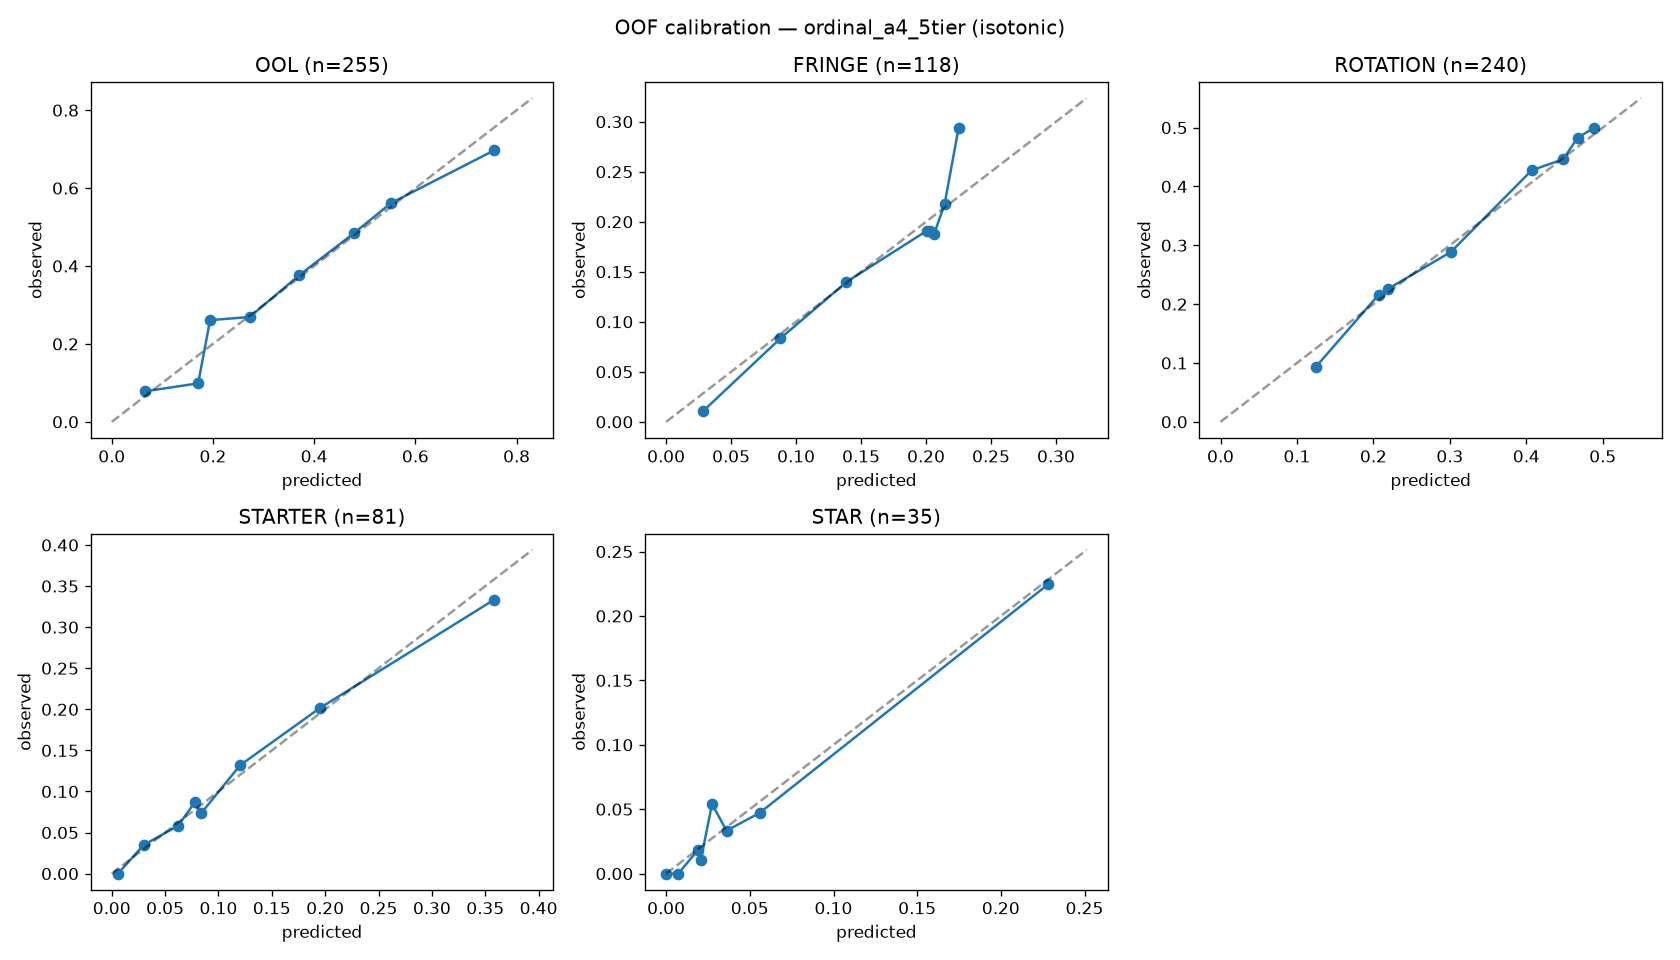
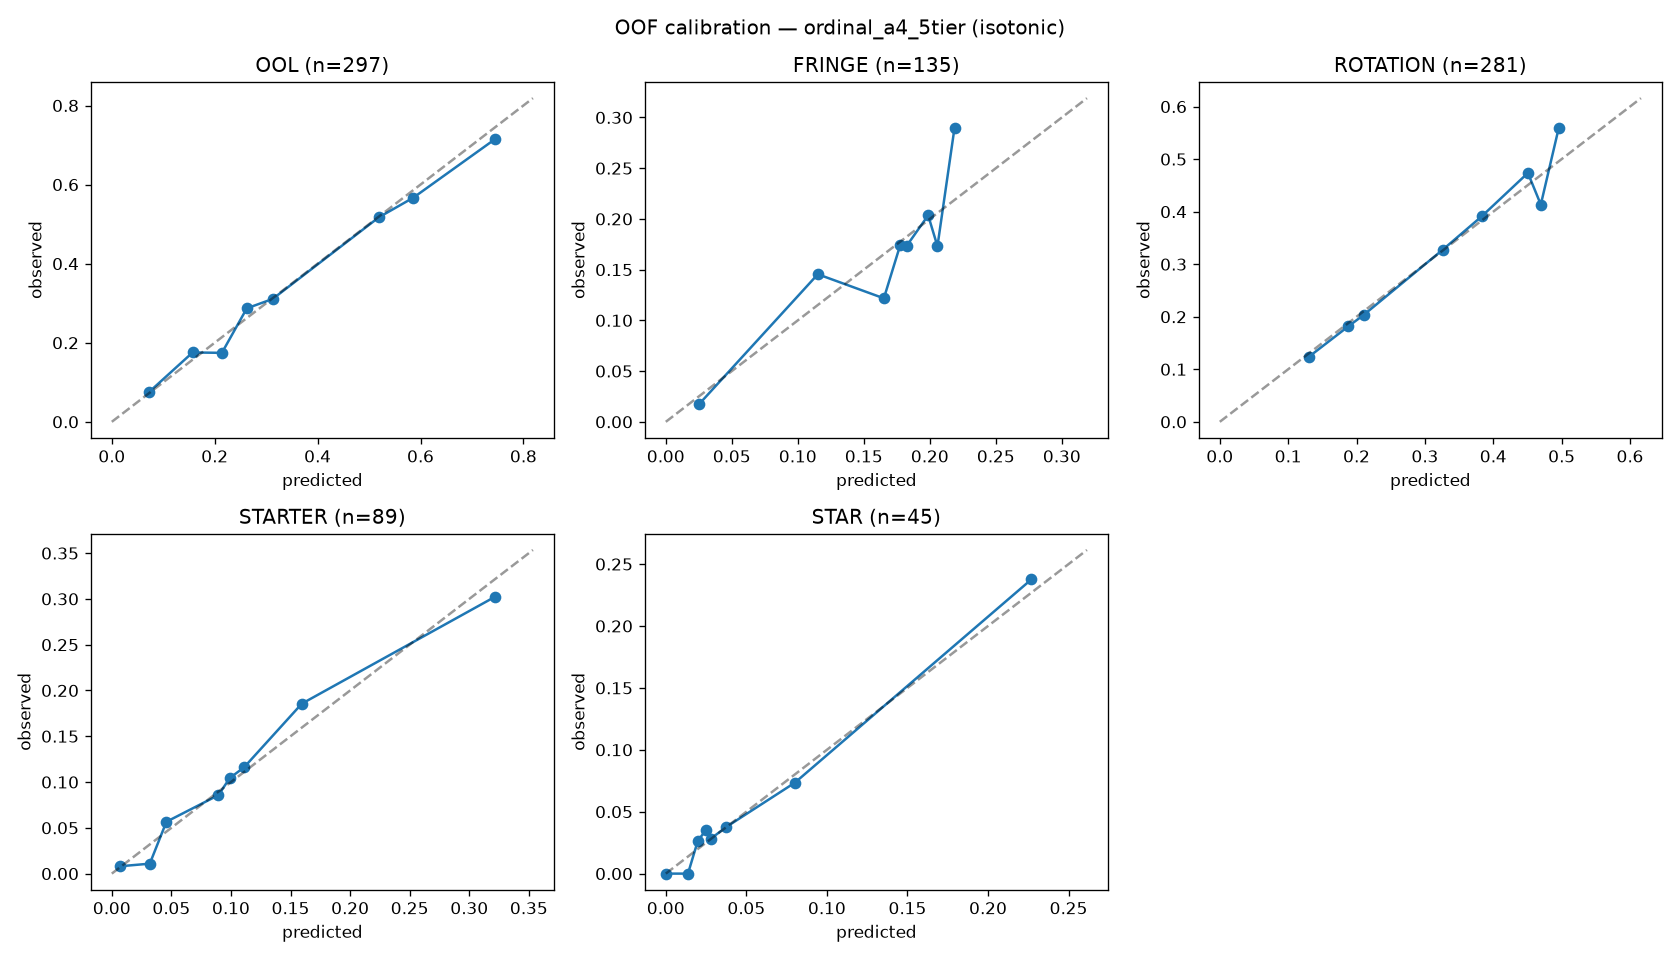
Extend training to 2009-2021 (13 classes) + two-axis bust framework
2009-2010 classes: 100% crosswalk coverage, Curry/Harden/George label
ELITE correctly. Gate verdict unchanged with more data (structural,
not sample noise). D14: value grade = realized utility minus slot EV
(Bust/Underdelivered/Delivered/Outperformed) - Bennett -11.6 vs
Wiggins -4.6 separation. D15: diagnostics - model beats market in
picks 31-45, loses in lottery; blend at ~25% model improves market.

diff --git a/model/common.py b/model/common.py
@@ -7,6 +7,23 @@ TIERS5 = ["OOL", "FRINGE", "ROTATION", "STARTER", "STAR"]  # AS+ELITE merged
 UTILITY = {"OOL": 0.0, "FRINGE": 1.0, "ROTATION": 3.0, "STARTER": 8.0,
            "ALL_STAR": 20.0, "ELITE": 40.0}
 
+
+def value_grade(shortfall: float) -> str:
+    """Market-relative outcome grade: realized utility minus slot-implied EV.
+
+    Two-axis framework (DECISIONS.md D14): the tier says what a player became;
+    this grade says what the pick cost. Self-adjusting by slot — a 55th pick who
+    never plays 'Delivered' (nothing was promised), a #1 who becomes a starter
+    merely 'Underdelivered' (Wiggins), and 'Bust' is reserved for Bennett-grade
+    shortfalls."""
+    if shortfall < -7:
+        return "Bust"
+    if shortfall < -3:
+        return "Underdelivered"
+    if shortfall <= 3:
+        return "Delivered"
+    return "Outperformed"
+
 FEATURES = [
     "age_at_draft", "height_in", "class_ord", "rec_score", "rec_missing", "power_conf",
     "min_pct", "usg", "ts", "efg", "ortg", "adjoe", "porpag", "adrtg", "dporpag",

diff --git a/pipeline/pull.py b/pipeline/pull.py
@@ -31,7 +31,7 @@ BARTTORVIK_COLS = [
     "role", "col65", "birthdate",
 ]
 
-SEASONS = range(2011, 2027)  # college seasons 2010-11 .. 2025-26
+SEASONS = range(2009, 2027)  # college seasons 2008-09 .. 2025-26 (Barttorvik starts 2008)
 
 
 def pull_barttorvik() -> pd.DataFrame:
@@ -64,7 +64,7 @@ def _bref_player_id(cell) -> str | None:
 
 def pull_bref_drafts() -> pd.DataFrame:
     rows = []
-    for yr in range(2011, 2027):
+    for yr in range(2009, 2027):
         html = get(f"https://www.basketball-reference.com/draft/NBA_{yr}.html", f"bref/draft_{yr}.html")
         soup = BeautifulSoup(html, "lxml")
         table = soup.find("table", id="stats")
@@ -93,7 +93,7 @@ def pull_bref_nba_seasons() -> pd.DataFrame:
     One page per season covers every player — no per-player scraping needed.
     """
     rows = []
-    for end_yr in range(2012, 2027):
+    for end_yr in range(2010, 2027):
         html = get(f"https://www.basketball-reference.com/leagues/NBA_{end_yr}_advanced.html",
                    f"bref/advanced_{end_yr}.html")
         soup = BeautifulSoup(uncomment(html), "lxml")
@@ -137,14 +137,14 @@ def pull_bref_accolades() -> pd.DataFrame:
         if not season or len(cells) < 5:
             continue
         end_yr = int(season[:4]) + 1
-        if end_yr < 2012 or "ABA" in tr.get_text():
+        if end_yr < 2010 or "ABA" in tr.get_text():
             continue
         for td in cells:
             pid = _bref_player_id(td)
             if pid:
                 rows.append({"season_end": end_yr, "bref_id": pid, "honor": "all_nba"})
-    # All-Star rosters: one page per year (no game in 2099; 2012-2026 all exist)
-    for end_yr in range(2012, 2027):
+    # All-Star rosters: one page per year
+    for end_yr in range(2010, 2027):
         html = get(f"https://www.basketball-reference.com/allstar/NBA_{end_yr}.html",
                    f"bref/allstar_{end_yr}.html")
         soup = BeautifulSoup(uncomment(html), "lxml")
@@ -164,7 +164,7 @@ def pull_combine() -> pd.DataFrame:
 
     # season_all_time="2018-19" holds the May 2018 combine, i.e. the 2018 draft class
     frames = []
-    for yr in range(2011, 2027):
+    for yr in range(2009, 2027):
         season = f"{yr}-{str(yr + 1)[-2:]}"
         cache = PROCESSED.parent / "raw" / "combine" / f"{season}.json"
         if cache.exists():
@@ -191,7 +191,7 @@ def pull_combine() -> pd.DataFrame:
 
 def pull_rsci() -> pd.DataFrame:
     rows = []
-    for yr in range(2006, 2026):
+    for yr in range(2004, 2026):
         html = get(f"https://www.basketball-reference.com/awards/recruit_rankings_{yr}.html",
                    f"bref/rsci_{yr}.html")
         soup = BeautifulSoup(uncomment(html), "lxml")

diff --git a/pipeline/labels.py b/pipeline/labels.py
@@ -30,7 +30,7 @@ from resolve import norm
 PROCESSED = Path(__file__).resolve().parent.parent / "data" / "processed"
 
 TIERS = ["OOL", "FRINGE", "ROTATION", "STARTER", "ALL_STAR", "ELITE"]
-LABELED_CLASSES = range(2011, 2022)
+LABELED_CLASSES = range(2009, 2022)
 ELITE_VORP_PCT = 0.98
 ELITE_BPM, ALLSTAR_BPM, PEAK_MIN_MP = 3.5, 2.2, 2500
 
@@ -159,6 +159,8 @@ def label_undrafted() -> pd.DataFrame:
 
 
 SPOT_CHECK = [
+    (2009, "Stephen Curry", "ELITE"), (2009, "James Harden", "ELITE"),
+    (2009, "Hasheem Thabeet", "FRINGE/ROTATION"), (2010, "Paul George", "ELITE/ALL_STAR"),
     (2011, "Kyrie Irving", "ELITE"), (2011, "Kawhi Leonard", "ELITE"),
     (2011, "Jimmy Butler", "ALL_STAR"), (2011, "Klay Thompson", "ALL_STAR"),
     (2012, "Anthony Davis", "ELITE"), (2012, "Andre Drummond", "STARTER (politics evicted)"),
@@ -182,8 +184,8 @@ if __name__ == "__main__":
     out = first4_outcomes()
     labeled = assign_tiers(out)
     labeled["undrafted"] = False
-    print(f"elite VORP threshold (p{ELITE_VORP_PCT:.0%} of drafted 2011-21): "
-          f"{labeled.attrs['elite_vorp']:.1f}")
+    print(f"elite VORP threshold (p{ELITE_VORP_PCT:.0%} of drafted "
+          f"{min(LABELED_CLASSES)}-{max(LABELED_CLASSES)}): {labeled.attrs['elite_vorp']:.1f}")
 
     undrafted = assign_tiers(label_undrafted(), elite_vorp=labeled.attrs["elite_vorp"])
     undrafted["undrafted"] = True

diff --git a/model/train.py b/model/train.py
@@ -30,7 +30,7 @@ from common import TIERS, TIERS5, UTILITY, FEATURES  # noqa: E402
 
 PROCESSED = ROOT / "data" / "processed"
 FIGS = ROOT / "report" / "figs"
-CLASSES = list(range(2011, 2022))
+CLASSES = list(range(2009, 2022))
 
 
 def load_training():

diff --git a/pipeline/features.py b/pipeline/features.py
@@ -147,7 +147,7 @@ def build() -> pd.DataFrame:
 if __name__ == "__main__":
     f = build()
     f.to_parquet(PROCESSED / "features.parquet")
-    labeled = f[f.draft_year.between(2011, 2021)]
+    labeled = f[f.draft_year.between(2009, 2021)]
     print(f"features: {len(f)} rows ({f.undrafted.sum()} undrafted), "
           f"{f.eligible.mean():.1%} eligible")
     print(f"training-era rows: {len(labeled)}; age coverage "

diff --git a/DECISIONS.md b/DECISIONS.md
@@ -144,6 +144,32 @@ LightGBM lost even after regularization (n=729 is logistic-regression country). 
 merge won the variant race, so P(STAR) is modeled and split into All-Star/Elite at display
 time by the slot-conditioned historical share.
 
+## D14. "Bust" is market-relative: the two-axis outcome framework ⭐
+
+**Choice:** every historical player gets (1) an absolute tier — what he became — and (2) a
+value grade = realized utility minus slot-implied EV: Bust < −7, Underdelivered −7..−3,
+Delivered −3..+3, Outperformed > +3 (`model/common.py::value_grade`). Annotation only, never
+a model target.
+
+**Why:** "bust" conflates two judgments. Anthony Bennett (FRINGE at #1, shortfall −11.6) and
+Andrew Wiggins (STARTER at #1, −4.6) are not the same story — Wiggins returned ~65% of slot
+value, a disappointment; Bennett returned 8%, a bust. The shortfall self-adjusts by slot: a
+55th pick who never sticks "Delivered," because nothing was promised. Pre-draft model FADES
+(the model's skepticism) and post-draft BUSTS (realized shortfall) are kept as separate
+concepts in the report.
+
+## D15. Gate-failure diagnostics: where the market wins, and the measured ceiling
+
+Region decomposition (OOF): the model loses worst in the lottery (+0.17 log-loss gap — thin
+freshman samples, maximal private info) and BEATS the market in picks 31–45 (−0.07): the
+early second round is the market's least efficient region. Blend test: mixing ~25% model into
+the market improves the market's own log loss (1.135→1.124) — the model carries genuinely
+incremental signal, just not enough to replace the market. Learning curve still descending at
+10 classes (~0.008/class), so training was extended to 2009–2021 (13 classes, 847 rows;
+Curry/Harden/George label correctly). The gate verdict is unchanged by more data — it is
+structural, not sample noise. Free-data ceiling: beyond this live tracking/on-off/medical
+data that aren't free.
+
 ---
 
 *Log continues as phases complete.*